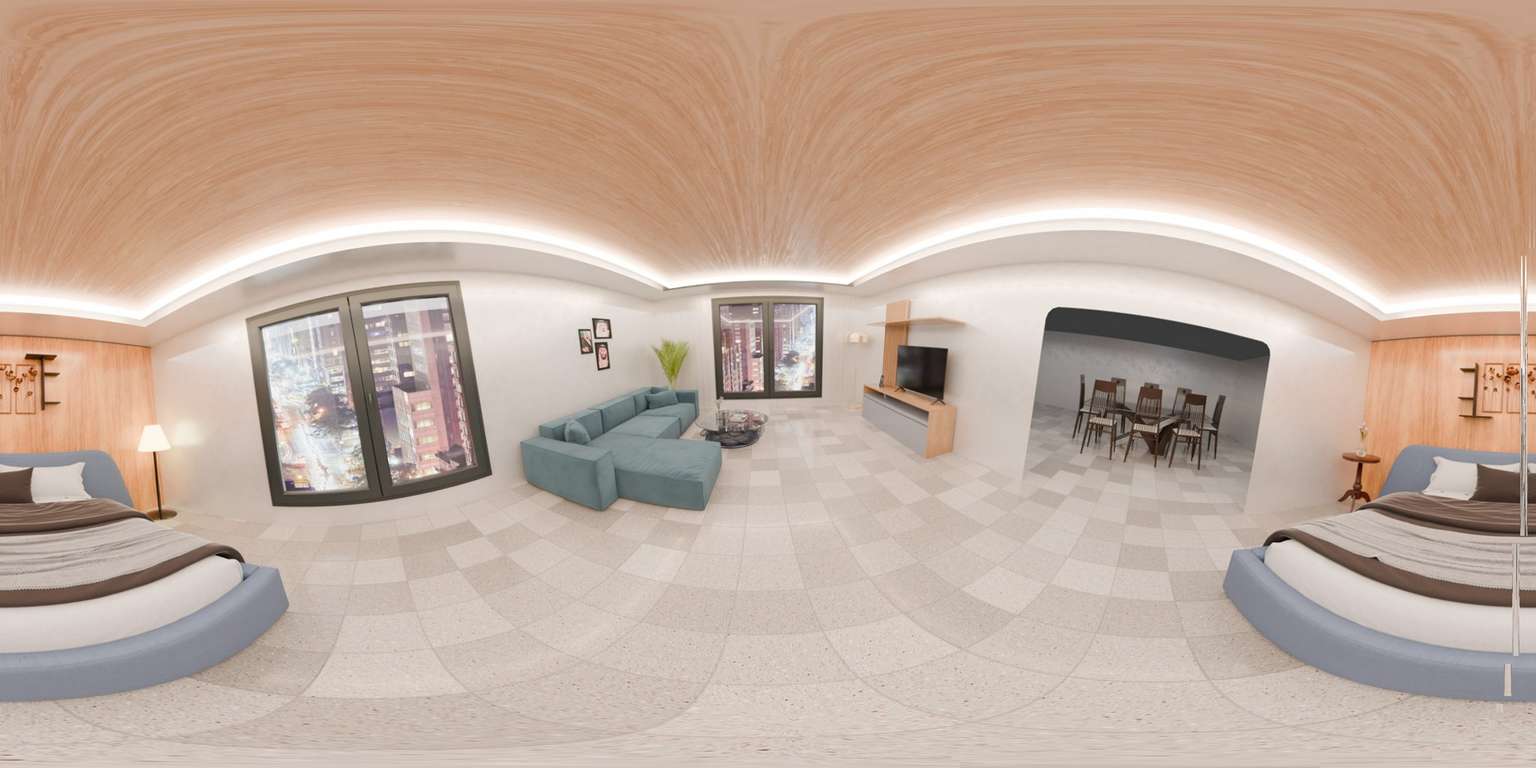
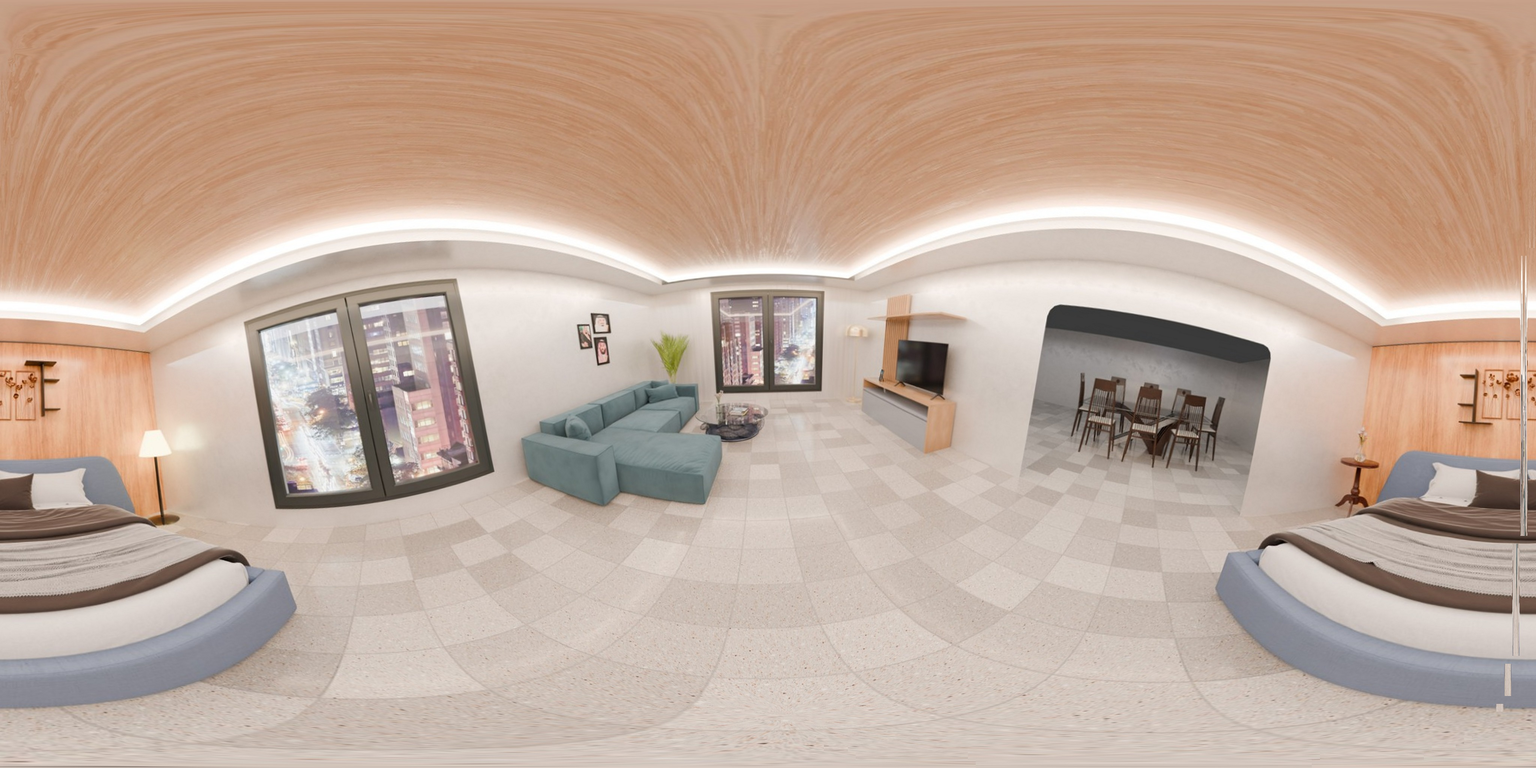
Sit the wooden blind properly in its window
Two things, both found by measuring the render rather than looking at it.

The window's top edge had been read 1.6 degrees too high off the source image,
so the blind hung that much above the glass. Rendering the scene with the blind
hidden and finding the window in the pixels put its top at 19.44 deg where the
measurement claimed 21.01, which is 9 px in the source. The blind's HEIGHT was
right all along - 91.4% of the window, as designed - it was the whole thing
sitting high.

Second, the blind covered less of the opening than the client's reference does.
It had been taking the share it keeps in its own captured room, 94% of the
width; the reference fills the opening. A "fill" override in the variant now
sets that per room, and wooden-premium asks for 99% and 95%.

Measured on the page afterwards: 97% of the window's width covered, gaps of 15
and 7 px against a 659 px window, and 90% of its height with a strip of glass
below the blind, which is what the reference shows too.

diff --git a/curtain_roll/www/wooden-premium.html b/curtain_roll/www/wooden-premium.html
@@ -2492,7 +2492,7 @@ $(document).ready(function () {
      changes - Outside is 12% bigger than Inside - so this watches for the
      value it did not put there and re-applies the factor on top, which keeps
      that behaviour intact. */
-  var BLIND_SCALE = [0.6645, 0.6159];          // [width, height]
+  var BLIND_SCALE = [0.7033, 0.6161];          // [width, height]
   var WINDOW_TOP_DEG = 21.006;        // window top, above the horizon
   var WINDOW_CX_DEG = 0.18;          // window centre, off dead ahead
 
